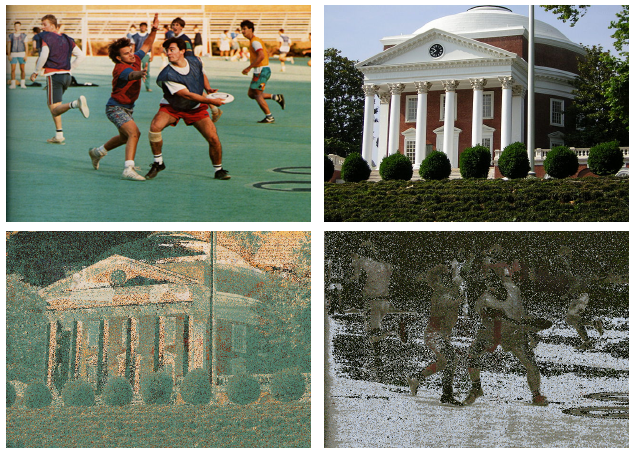
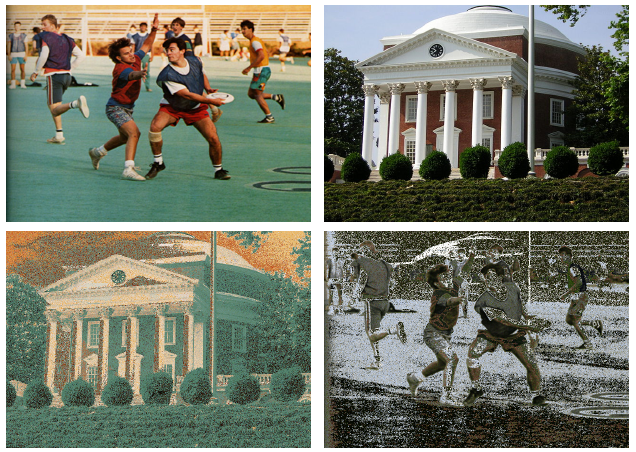
Did both images

diff --git a/.ipynb_checkpoints/simpix-checkpoint.cpp b/.ipynb_checkpoints/simpix-checkpoint.cpp
@@ -28,7 +28,7 @@ double difference(UInt_t pixelA, UInt_t pixelB){
     double dg = Ag-Bg;
     double db = Ab-Bb;
 
-    return dr*dr+dg*dg+db*db;
+    return sqrt(dr*dr+dg*dg+db*db);
 };
 
 double E(UInt_t *src, UInt_t *tgt, int num){
@@ -92,16 +92,16 @@ int main(int argc, char **argv){
   UInt_t *imout2 = out2->GetArgbArray(); 
 
 
-  int Tmax = 30000;
-  int nT = 40000;
+  int Tmax = 60000;
+  double nT = 45000;
 
   double T;
 
 
   for (int itemp=nT; itemp>0; itemp--) {
-    T = (Tmax*itemp)/nT;
+    T = itemp*(Tmax/nT);
 
-    if (fmod(T, 100)==0) cout << "Temperature: " << T << endl;
+    if (fmod(T, 100)==0) cout << "Temperature: " << (unsigned int)T << endl;
 
 
 

diff --git a/simpix.cpp b/simpix.cpp
@@ -28,7 +28,7 @@ double difference(UInt_t pixelA, UInt_t pixelB){
     double dg = Ag-Bg;
     double db = Ab-Bb;
 
-    return dr*dr+dg*dg+db*db;
+    return sqrt(dr*dr+dg*dg+db*db);
 };
 
 double E(UInt_t *src, UInt_t *tgt, int num){
@@ -92,16 +92,16 @@ int main(int argc, char **argv){
   UInt_t *imout2 = out2->GetArgbArray(); 
 
 
-  int Tmax = 30000;
-  int nT = 40000;
+  int Tmax = 60000;
+  double nT = 45000;
 
   double T;
 
 
   for (int itemp=nT; itemp>0; itemp--) {
-    T = (Tmax*itemp)/nT;
+    T = itemp*(Tmax/nT);
 
-    if (fmod(T, 100)==0) cout << "Temperature: " << T << endl;
+    if (fmod(T, 100)==0) cout << "Temperature: " << (unsigned int)T << endl;
 
 
 
